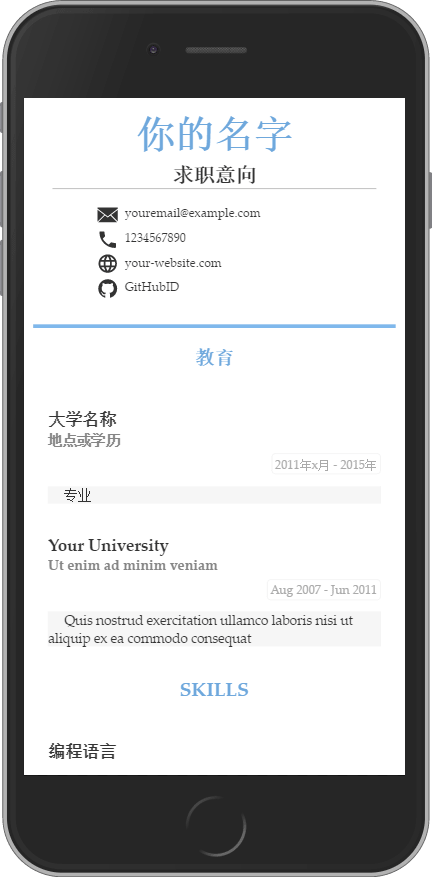
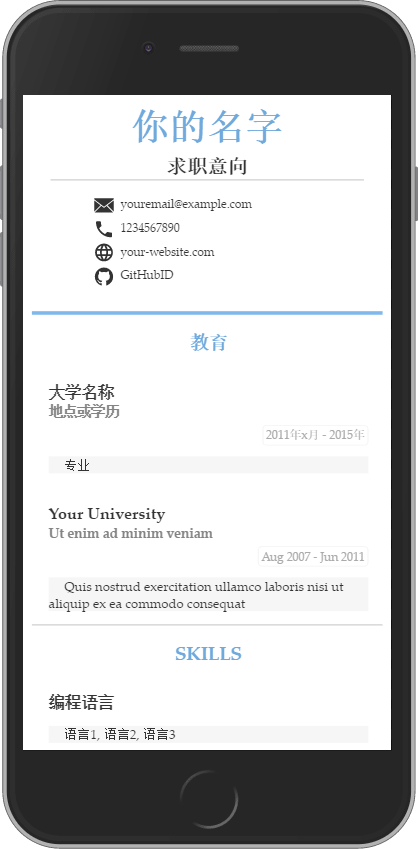
移动版分割线

diff --git a/_sass/mobile.scss b/_sass/mobile.scss
@@ -3,12 +3,9 @@
 //低分辨率笔记本和宽pad
 @media screen and (max-width: 1024px) {
     html,
-    body,
-    section {
+    body {
         padding: 0;
         border: 0;
-    }
-    html {
         background-color: $paper_color;
     }
     .container {
@@ -36,7 +33,7 @@
     h2 {
         display: block;
         text-align: center;
-        margin: .8em auto;
+        margin: .8em auto .2em;
     }
 }
 
